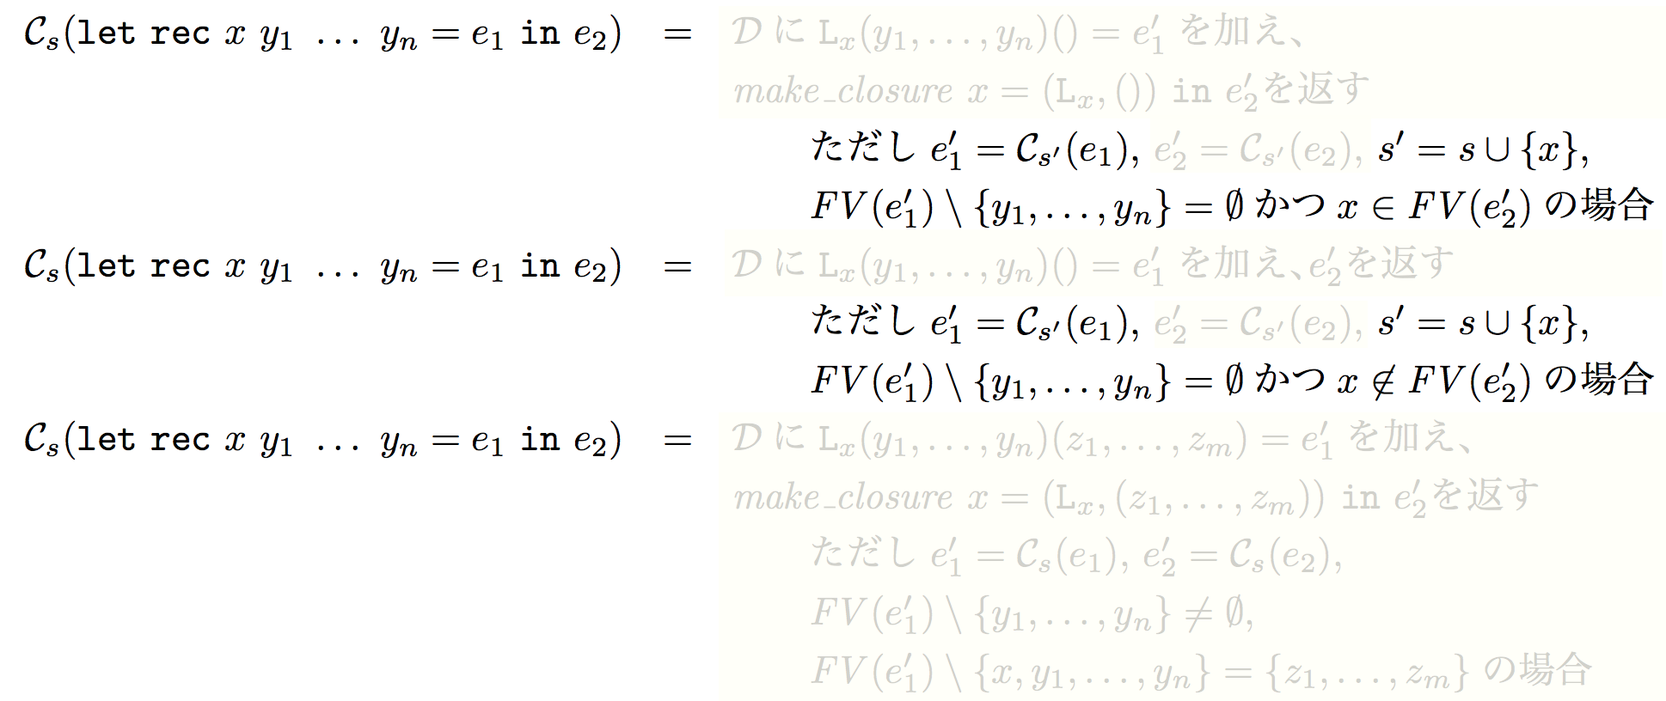
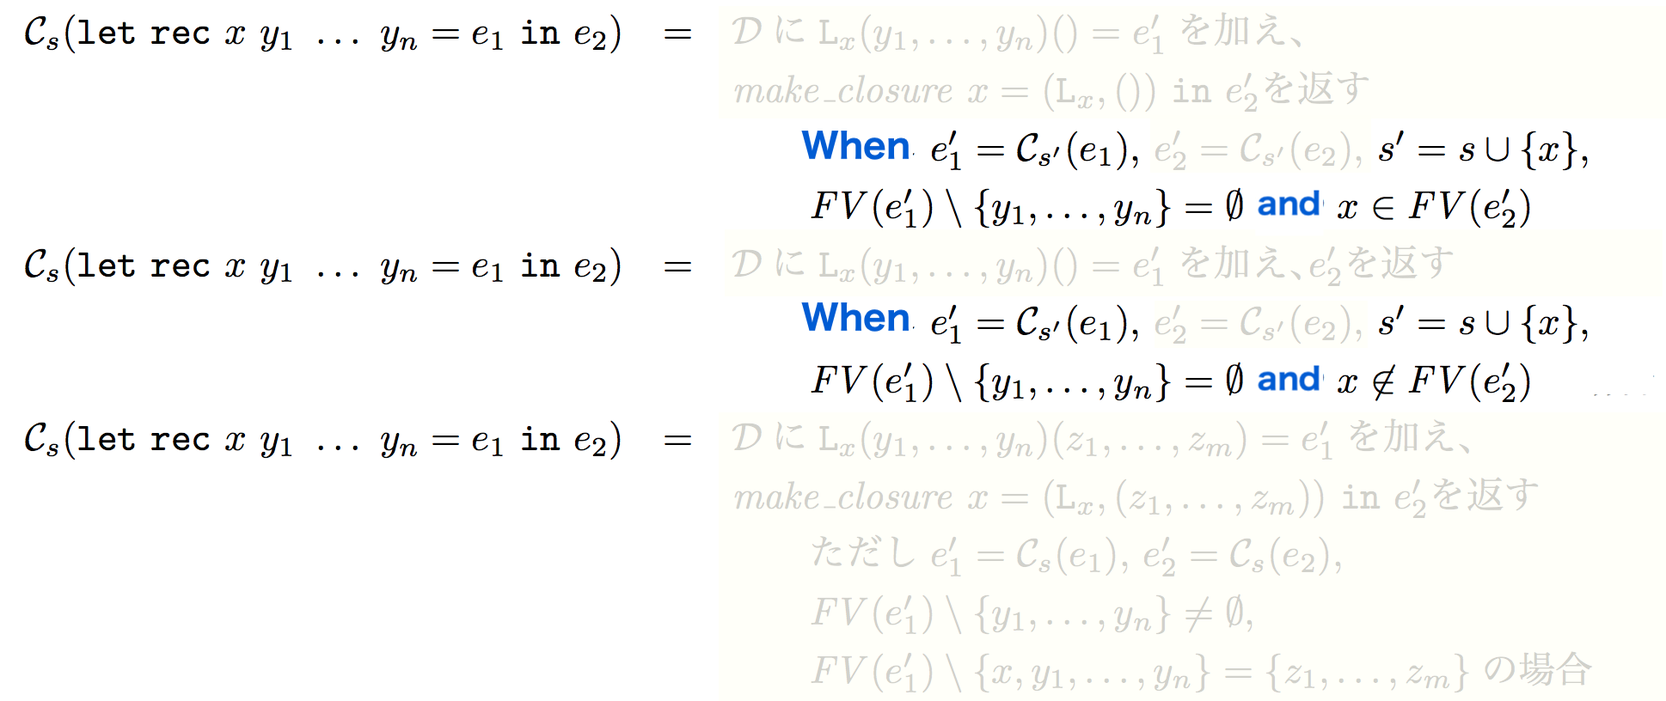
day11

diff --git a/docs/slide/11-closure.html b/docs/slide/11-closure.html
@@ -15,7 +15,7 @@
   <style type="text/css">
 a.sourceLine { display: inline-block; line-height: 1.25; }
 a.sourceLine { pointer-events: none; color: inherit; text-decoration: inherit; }
-a.sourceLine:empty { height: 1.2em; }
+a.sourceLine:empty { height: 1.2em; position: absolute; }
 .sourceCode { overflow: visible; }
 code.sourceCode { white-space: pre; position: relative; }
 div.sourceCode { margin: 1em 0; }
@@ -28,11 +28,13 @@ code.sourceCode { white-space: pre-wrap; }
 a.sourceLine { text-indent: -1em; padding-left: 1em; }
 }
 pre.numberSource a.sourceLine
-  { position: relative; left: -4em; }
+  { position: relative; }
+pre.numberSource a.sourceLine:empty
+  { position: absolute; }
 pre.numberSource a.sourceLine::before
   { content: attr(data-line-number);
-    position: relative; left: -1em; text-align: right; vertical-align: baseline;
-    border: none; pointer-events: all; display: inline-block;
+    position: absolute; left: -5em; text-align: right; vertical-align: baseline;
+    border: none; pointer-events: all;
     -webkit-touch-callout: none; -webkit-user-select: none;
     -khtml-user-select: none; -moz-user-select: none;
     -ms-user-select: none; user-select: none;
@@ -129,14 +131,93 @@ code span.wa { color: #60a0b0; font-weight: bold; font-style: italic; } /* Warni
 #MathJax_Message {position: fixed; left: 1px; bottom: 2px; background-color: #E6E6E6; border: 1px solid #959595; margin: 0px; padding: 2px 8px; z-index: 102; color: black; font-size: 80%; width: auto; white-space: nowrap}
 #MathJax_MSIE_Frame {position: absolute; top: 0; left: 0; width: 0px; z-index: 101; border: 0px; margin: 0px; padding: 0px}
 .MathJax_Error {color: #CC0000; font-style: italic}
+</style><style type="text/css">.MJXp-script {font-size: .8em}
+.MJXp-right {-webkit-transform-origin: right; -moz-transform-origin: right; -ms-transform-origin: right; -o-transform-origin: right; transform-origin: right}
+.MJXp-bold {font-weight: bold}
+.MJXp-italic {font-style: italic}
+.MJXp-scr {font-family: MathJax_Script,'Times New Roman',Times,STIXGeneral,serif}
+.MJXp-frak {font-family: MathJax_Fraktur,'Times New Roman',Times,STIXGeneral,serif}
+.MJXp-sf {font-family: MathJax_SansSerif,'Times New Roman',Times,STIXGeneral,serif}
+.MJXp-cal {font-family: MathJax_Caligraphic,'Times New Roman',Times,STIXGeneral,serif}
+.MJXp-mono {font-family: MathJax_Typewriter,'Times New Roman',Times,STIXGeneral,serif}
+.MJXp-largeop {font-size: 150%}
+.MJXp-largeop.MJXp-int {vertical-align: -.2em}
+.MJXp-math {display: inline-block; line-height: 1.2; text-indent: 0; font-family: 'Times New Roman',Times,STIXGeneral,serif; white-space: nowrap; border-collapse: collapse}
+.MJXp-display {display: block; text-align: center; margin: 1em 0}
+.MJXp-math span {display: inline-block}
+.MJXp-box {display: block!important; text-align: center}
+.MJXp-box:after {content: " "}
+.MJXp-rule {display: block!important; margin-top: .1em}
+.MJXp-char {display: block!important}
+.MJXp-mo {margin: 0 .15em}
+.MJXp-mfrac {margin: 0 .125em; vertical-align: .25em}
+.MJXp-denom {display: inline-table!important; width: 100%}
+.MJXp-denom > * {display: table-row!important}
+.MJXp-surd {vertical-align: top}
+.MJXp-surd > * {display: block!important}
+.MJXp-script-box > *  {display: table!important; height: 50%}
+.MJXp-script-box > * > * {display: table-cell!important; vertical-align: top}
+.MJXp-script-box > *:last-child > * {vertical-align: bottom}
+.MJXp-script-box > * > * > * {display: block!important}
+.MJXp-mphantom {visibility: hidden}
+.MJXp-munderover {display: inline-table!important}
+.MJXp-over {display: inline-block!important; text-align: center}
+.MJXp-over > * {display: block!important}
+.MJXp-munderover > * {display: table-row!important}
+.MJXp-mtable {vertical-align: .25em; margin: 0 .125em}
+.MJXp-mtable > * {display: inline-table!important; vertical-align: middle}
+.MJXp-mtr {display: table-row!important}
+.MJXp-mtd {display: table-cell!important; text-align: center; padding: .5em 0 0 .5em}
+.MJXp-mtr > .MJXp-mtd:first-child {padding-left: 0}
+.MJXp-mtr:first-child > .MJXp-mtd {padding-top: 0}
+.MJXp-mlabeledtr {display: table-row!important}
+.MJXp-mlabeledtr > .MJXp-mtd:first-child {padding-left: 0}
+.MJXp-mlabeledtr:first-child > .MJXp-mtd {padding-top: 0}
+.MJXp-merror {background-color: #FFFF88; color: #CC0000; border: 1px solid #CC0000; padding: 1px 3px; font-style: normal; font-size: 90%}
+.MJXp-scale0 {-webkit-transform: scaleX(.0); -moz-transform: scaleX(.0); -ms-transform: scaleX(.0); -o-transform: scaleX(.0); transform: scaleX(.0)}
+.MJXp-scale1 {-webkit-transform: scaleX(.1); -moz-transform: scaleX(.1); -ms-transform: scaleX(.1); -o-transform: scaleX(.1); transform: scaleX(.1)}
+.MJXp-scale2 {-webkit-transform: scaleX(.2); -moz-transform: scaleX(.2); -ms-transform: scaleX(.2); -o-transform: scaleX(.2); transform: scaleX(.2)}
+.MJXp-scale3 {-webkit-transform: scaleX(.3); -moz-transform: scaleX(.3); -ms-transform: scaleX(.3); -o-transform: scaleX(.3); transform: scaleX(.3)}
+.MJXp-scale4 {-webkit-transform: scaleX(.4); -moz-transform: scaleX(.4); -ms-transform: scaleX(.4); -o-transform: scaleX(.4); transform: scaleX(.4)}
+.MJXp-scale5 {-webkit-transform: scaleX(.5); -moz-transform: scaleX(.5); -ms-transform: scaleX(.5); -o-transform: scaleX(.5); transform: scaleX(.5)}
+.MJXp-scale6 {-webkit-transform: scaleX(.6); -moz-transform: scaleX(.6); -ms-transform: scaleX(.6); -o-transform: scaleX(.6); transform: scaleX(.6)}
+.MJXp-scale7 {-webkit-transform: scaleX(.7); -moz-transform: scaleX(.7); -ms-transform: scaleX(.7); -o-transform: scaleX(.7); transform: scaleX(.7)}
+.MJXp-scale8 {-webkit-transform: scaleX(.8); -moz-transform: scaleX(.8); -ms-transform: scaleX(.8); -o-transform: scaleX(.8); transform: scaleX(.8)}
+.MJXp-scale9 {-webkit-transform: scaleX(.9); -moz-transform: scaleX(.9); -ms-transform: scaleX(.9); -o-transform: scaleX(.9); transform: scaleX(.9)}
+.MathJax_PHTML .noError {vertical-align: ; font-size: 90%; text-align: left; color: black; padding: 1px 3px; border: 1px solid}
+</style><style type="text/css">.MathJax_Display {text-align: center; margin: 1em 0em; position: relative; display: block!important; text-indent: 0; max-width: none; max-height: none; min-width: 0; min-height: 0; width: 100%}
+.MathJax .merror {background-color: #FFFF88; color: #CC0000; border: 1px solid #CC0000; padding: 1px 3px; font-style: normal; font-size: 90%}
+.MathJax .MJX-monospace {font-family: monospace}
+.MathJax .MJX-sans-serif {font-family: sans-serif}
+#MathJax_Tooltip {background-color: InfoBackground; color: InfoText; border: 1px solid black; box-shadow: 2px 2px 5px #AAAAAA; -webkit-box-shadow: 2px 2px 5px #AAAAAA; -moz-box-shadow: 2px 2px 5px #AAAAAA; -khtml-box-shadow: 2px 2px 5px #AAAAAA; filter: progid:DXImageTransform.Microsoft.dropshadow(OffX=2, OffY=2, Color='gray', Positive='true'); padding: 3px 4px; z-index: 401; position: absolute; left: 0; top: 0; width: auto; height: auto; display: none}
+.MathJax {display: inline; font-style: normal; font-weight: normal; line-height: normal; font-size: 100%; font-size-adjust: none; text-indent: 0; text-align: left; text-transform: none; letter-spacing: normal; word-spacing: normal; word-wrap: normal; white-space: nowrap; float: none; direction: ltr; max-width: none; max-height: none; min-width: 0; min-height: 0; border: 0; padding: 0; margin: 0}
+.MathJax:focus, body :focus .MathJax {display: inline-table}
+.MathJax.MathJax_FullWidth {text-align: center; display: table-cell!important; width: 10000em!important}
+.MathJax img, .MathJax nobr, .MathJax a {border: 0; padding: 0; margin: 0; max-width: 5000em; max-height: 5000em; min-width: 0; min-height: 0; vertical-align: 0; line-height: normal; text-decoration: none}
+img.MathJax_strut {border: 0!important; padding: 0!important; margin: 0!important; vertical-align: 0!important}
+.MathJax span {display: inline; position: static; border: 0; padding: 0; margin: 0; vertical-align: 0; line-height: normal; text-decoration: none}
+.MathJax nobr {white-space: nowrap!important}
+.MathJax img {display: inline!important; float: none!important}
+.MathJax * {transition: none; -webkit-transition: none; -moz-transition: none; -ms-transition: none; -o-transition: none}
+.MathJax_Processing {visibility: hidden; position: fixed; width: 0; height: 0; overflow: hidden}
+.MathJax_Processed {display: none!important}
+.MathJax_ExBox {display: block!important; overflow: hidden; width: 1px; height: 60ex; min-height: 0; max-height: none}
+.MathJax .MathJax_EmBox {display: block!important; overflow: hidden; width: 1px; height: 60em; min-height: 0; max-height: none}
+.MathJax_LineBox {display: table!important}
+.MathJax_LineBox span {display: table-cell!important; width: 10000em!important; min-width: 0; max-width: none; padding: 0; border: 0; margin: 0}
+.MathJax .MathJax_HitBox {cursor: text; background: white; opacity: 0; filter: alpha(opacity=0)}
+.MathJax .MathJax_HitBox * {filter: none; opacity: 1; background: transparent}
+#MathJax_Tooltip * {filter: none; opacity: 1; background: transparent}
+@font-face {font-family: MathJax_Blank; src: url('about:blank')}
+.MathJax .noError {vertical-align: ; font-size: 90%; text-align: left; color: black; padding: 1px 3px; border: 1px solid}
 </style></head>
-<body style="-webkit-transition: -webkit-transform 0.8s ease; transition: -webkit-transform 0.8s ease;">
+<body style="-webkit-transition: -webkit-transform 0.8s ease; transition: -webkit-transform 0.8s ease;"><div style="visibility: hidden; overflow: hidden; position: absolute; top: 0px; height: 1px; width: auto; padding: 0px; border: 0px; margin: 0px; text-align: left; text-indent: 0px; text-transform: none; line-height: normal; letter-spacing: normal; word-spacing: normal;"><div id="MathJax_Hidden"></div></div><div id="MathJax_Message" style="display: none;"></div>
   <div class="reveal slide center has-vertical-slides has-horizontal-slides ready" role="application" data-transition-speed="default" data-background-transition="fade">
     <div class="slides" style="width: 1280px; height: 1024px; left: 50%; top: 50%; bottom: auto; right: auto; -webkit-transform: translate(-50%, -50%) scale(0.28125);">
 
-<section style="top: 48px; display: block;" class="present">
+<section style="top: 229px; display: block;" class="present">
   <h1 class="title">Closure Conversion: Implementation</h1>
-  <p class="author">Ken Wakita (<a href="https://wakita.github.io/fp2018/">https://wakita.github.io/fp2018/</a>)</p>
+  <p class="author">Ken Wakita (<a href="https://wakita.github.io/fp2018/" class="uri">https://wakita.github.io/fp2018/</a>)</p>
   <p class="date">Nov 5, 2018</p>
 </section>
 
@@ -178,7 +259,7 @@ f 9
 
 -->
 </section>
-<section style="top: 0px; display: block;" hidden="" aria-hidden="true" class="stack future"><section id="implementation-of-closure-conversion" class="title-slide slide level1" style="top: 210.5px; display: block;"><h1>Implementation of Closure Conversion</h1></section><section id="application" class="slide level2 future" aria-hidden="true" style="top: 512px; display: none;">
+<section style="top: 0px; display: block;" hidden="" aria-hidden="true" class="stack future"><section id="implementation-of-closure-conversion" class="title-slide slide level1" style="top: 301px; display: block;"><h1>Implementation of Closure Conversion</h1></section><section id="application" class="slide level2 future" aria-hidden="true" style="top: 512px; display: none;">
 <h2>Application</h2>
 <div class="sourceCode" id="cb1"><pre class="sourceCode ocaml"><code class="sourceCode ocaml"><a class="sourceLine" id="cb1-1" data-line-number="1"><span class="co">(* closure.ml *)</span></a>
 <a class="sourceLine" id="cb1-2" data-line-number="2"></a>
@@ -190,22 +271,22 @@ f 9
 <a class="sourceLine" id="cb1-8" data-line-number="8">  | KNormal.App(f, xs) -&gt; AppCls(f, xs)</a>
 <a class="sourceLine" id="cb1-9" data-line-number="9"></a>
 <a class="sourceLine" id="cb1-10" data-line-number="10">  | ...</a></code></pre></div>
-<p><span class="math display">\[\begin {align}
-{\cal C}_s(x\ y_1\ldots y_n) &amp;=
+<p><span class="math display"><span class="MathJax_Preview" style="color: inherit;"><span class="MJXp-math MJXp-display" id="MJXp-Span-1"><span class="MJXp-mtable" id="MJXp-Span-2"><span><span class="MJXp-mtr" id="MJXp-Span-3" style="vertical-align: baseline;"><span class="MJXp-mtd" id="MJXp-Span-4" style="text-align: right;"><span class="MJXp-msubsup" id="MJXp-Span-5"><span class="MJXp-mrow" id="MJXp-Span-6" style="margin-right: 0.05em;"><span class="MJXp-mi MJXp-cal" id="MJXp-Span-7">C</span></span><span class="MJXp-mi MJXp-italic MJXp-script" id="MJXp-Span-8" style="vertical-align: -0.4em;">s</span></span><span class="MJXp-mo" id="MJXp-Span-9" style="margin-left: 0em; margin-right: 0em;">(</span><span class="MJXp-mi MJXp-italic" id="MJXp-Span-10">x</span><span class="MJXp-mtext" id="MJXp-Span-11">&nbsp;</span><span class="MJXp-msubsup" id="MJXp-Span-12"><span class="MJXp-mi MJXp-italic" id="MJXp-Span-13" style="margin-right: 0.05em;">y</span><span class="MJXp-mn MJXp-script" id="MJXp-Span-14" style="vertical-align: -0.4em;">1</span></span><span class="MJXp-mo" id="MJXp-Span-15" style="margin-left: 0em; margin-right: 0em;">…</span><span class="MJXp-msubsup" id="MJXp-Span-16"><span class="MJXp-mi MJXp-italic" id="MJXp-Span-17" style="margin-right: 0.05em;">y</span><span class="MJXp-mi MJXp-italic MJXp-script" id="MJXp-Span-18" style="vertical-align: -0.4em;">n</span></span><span class="MJXp-mo" id="MJXp-Span-19" style="margin-left: 0em; margin-right: 0em;">)</span></span><span class="MJXp-mtd" id="MJXp-Span-20" style="padding-left: 0em; text-align: left;"><span class="MJXp-mi" id="MJXp-Span-21"></span><span class="MJXp-mo" id="MJXp-Span-22" style="margin-left: 0.333em; margin-right: 0.333em;">=</span><span class="MJXp-mrow" id="MJXp-Span-23"><span class="MJXp-mo" id="MJXp-Span-24" style="margin-left: 0em; margin-right: 0em; vertical-align: -0.661em;"><span class="MJXp-right MJXp-scale4" style="font-size: 3.644em; margin-left: -0.278em;">{</span></span><span class="MJXp-mtable" id="MJXp-Span-25"><span><span class="MJXp-mtr" id="MJXp-Span-26" style="vertical-align: baseline;"><span class="MJXp-mtd" id="MJXp-Span-27" style="text-align: left;"><span class="MJXp-mrow" id="MJXp-Span-28"><span class="MJXp-mi undefined" id="MJXp-Span-29">a</span><span class="MJXp-mi undefined" id="MJXp-Span-30">p</span><span class="MJXp-mi undefined" id="MJXp-Span-31">p</span><span class="MJXp-mi undefined" id="MJXp-Span-32">l</span><span class="MJXp-mi undefined" id="MJXp-Span-33">y</span><span class="MJXp-mi undefined" id="MJXp-Span-34">_</span><span class="MJXp-mi undefined" id="MJXp-Span-35">c</span><span class="MJXp-mi undefined" id="MJXp-Span-36">l</span><span class="MJXp-mi undefined" id="MJXp-Span-37">o</span><span class="MJXp-mi undefined" id="MJXp-Span-38">s</span><span class="MJXp-mi undefined" id="MJXp-Span-39">u</span><span class="MJXp-mi undefined" id="MJXp-Span-40">r</span><span class="MJXp-mi undefined" id="MJXp-Span-41">e</span></span><span class="MJXp-mo" id="MJXp-Span-42" style="margin-left: 0em; margin-right: 0em;">(</span><span class="MJXp-mi MJXp-italic" id="MJXp-Span-43">x</span><span class="MJXp-mo" id="MJXp-Span-44" style="margin-left: 0em; margin-right: 0.222em;">,</span><span class="MJXp-msubsup" id="MJXp-Span-45"><span class="MJXp-mi MJXp-italic" id="MJXp-Span-46" style="margin-right: 0.05em;">y</span><span class="MJXp-mn MJXp-script" id="MJXp-Span-47" style="vertical-align: -0.4em;">1</span></span><span class="MJXp-mo" id="MJXp-Span-48" style="margin-left: 0em; margin-right: 0.222em;">,</span><span class="MJXp-mo" id="MJXp-Span-49" style="margin-left: 0em; margin-right: 0em;">…</span><span class="MJXp-mo" id="MJXp-Span-50" style="margin-left: 0em; margin-right: 0.222em;">,</span><span class="MJXp-msubsup" id="MJXp-Span-51"><span class="MJXp-mi MJXp-italic" id="MJXp-Span-52" style="margin-right: 0.05em;">y</span><span class="MJXp-mi MJXp-italic MJXp-script" id="MJXp-Span-53" style="vertical-align: -0.4em;">n</span></span><span class="MJXp-mo" id="MJXp-Span-54" style="margin-left: 0em; margin-right: 0em;">)</span></span><span class="MJXp-mtd" id="MJXp-Span-55" style="padding-left: 1em; text-align: left;"><span class="MJXp-mi MJXp-italic" id="MJXp-Span-56">x</span><span class="MJXp-mo" id="MJXp-Span-57" style="margin-left: 0.333em; margin-right: 0.333em;">∉</span><span class="MJXp-mi MJXp-italic" id="MJXp-Span-58">s</span></span></span><span class="MJXp-mtr" id="MJXp-Span-59" style="vertical-align: baseline;"><span class="MJXp-mtd" id="MJXp-Span-60" style="padding-top: 0.2em; text-align: left;"><span class="MJXp-mrow" id="MJXp-Span-61"><span class="MJXp-mi undefined" id="MJXp-Span-62">a</span><span class="MJXp-mi undefined" id="MJXp-Span-63">p</span><span class="MJXp-mi undefined" id="MJXp-Span-64">p</span><span class="MJXp-mi undefined" id="MJXp-Span-65">l</span><span class="MJXp-mi undefined" id="MJXp-Span-66">y</span><span class="MJXp-mi undefined" id="MJXp-Span-67">_</span><span class="MJXp-mi undefined" id="MJXp-Span-68">d</span><span class="MJXp-mi undefined" id="MJXp-Span-69">i</span><span class="MJXp-mi undefined" id="MJXp-Span-70">r</span><span class="MJXp-mi undefined" id="MJXp-Span-71">e</span><span class="MJXp-mi undefined" id="MJXp-Span-72">c</span><span class="MJXp-mi undefined" id="MJXp-Span-73">t</span></span><span class="MJXp-mo" id="MJXp-Span-74" style="margin-left: 0em; margin-right: 0em;">(</span><span class="MJXp-msubsup" id="MJXp-Span-75"><span class="MJXp-mrow" id="MJXp-Span-76" style="margin-right: 0.05em;"><span class="MJXp-mi MJXp-mono" id="MJXp-Span-77">L</span></span><span class="MJXp-mi MJXp-italic MJXp-script" id="MJXp-Span-78" style="vertical-align: -0.4em;">x</span></span><span class="MJXp-mo" id="MJXp-Span-79" style="margin-left: 0em; margin-right: 0.222em;">,</span><span class="MJXp-msubsup" id="MJXp-Span-80"><span class="MJXp-mi MJXp-italic" id="MJXp-Span-81" style="margin-right: 0.05em;">y</span><span class="MJXp-mn MJXp-script" id="MJXp-Span-82" style="vertical-align: -0.4em;">1</span></span><span class="MJXp-mo" id="MJXp-Span-83" style="margin-left: 0em; margin-right: 0.222em;">,</span><span class="MJXp-mo" id="MJXp-Span-84" style="margin-left: 0em; margin-right: 0em;">…</span><span class="MJXp-mo" id="MJXp-Span-85" style="margin-left: 0em; margin-right: 0.222em;">,</span><span class="MJXp-msubsup" id="MJXp-Span-86"><span class="MJXp-mi MJXp-italic" id="MJXp-Span-87" style="margin-right: 0.05em;">y</span><span class="MJXp-mi MJXp-italic MJXp-script" id="MJXp-Span-88" style="vertical-align: -0.4em;">n</span></span><span class="MJXp-mo" id="MJXp-Span-89" style="margin-left: 0em; margin-right: 0em;">)</span></span><span class="MJXp-mtd" id="MJXp-Span-90" style="padding-left: 1em; padding-top: 0.2em; text-align: left;"><span class="MJXp-mi MJXp-italic" id="MJXp-Span-91">x</span><span class="MJXp-mo" id="MJXp-Span-92" style="margin-left: 0.333em; margin-right: 0.333em;">∈</span><span class="MJXp-mi MJXp-italic" id="MJXp-Span-93">s</span></span></span></span></span><span class="MJXp-mo" id="MJXp-Span-94" style="margin-left: 0em; margin-right: 0em;"></span></span></span></span></span></span></span></span><script type="math/tex; mode=display" id="MathJax-Element-1">\begin {align}
+{\cal C}_s(x\ y_1\ldots y_n) &=
 \begin {cases}
-\mathit {apply\_closure}(x, y_1, \ldots, y_n) &amp; x \not\in s \\
-\mathit {apply\_direct}(\mathtt {L}_x, y_1, \ldots, y_n) &amp; x \in s
+\mathit {apply\_closure}(x, y_1, \ldots, y_n) & x \not\in s \\
+\mathit {apply\_direct}(\mathtt {L}_x, y_1, \ldots, y_n) & x \in s
 \end {cases}
-\end {align}\]</span></p>
+\end {align}</script></span></p>
 </section><section id="the-overview-of-closure-conversion" class="slide level2 future" aria-hidden="true" style="top: 512px; display: none;">
 <h2>The Overview of Closure Conversion</h2>
 <div class="sourceCode" id="cb2"><pre class="sourceCode ocaml"><code class="sourceCode ocaml"><a class="sourceLine" id="cb2-1" data-line-number="1">  | KNormal.LetRec({ KNormal.name = (x, t); KNormal.args = yts; KNormal.body = e1 }, e2) -&gt;</a>
-<a class="sourceLine" id="cb2-2" data-line-number="2">    <span class="co">(* Attempt closure conversion, assuming x containing no free variables: Case 1 *)</span></a>
-<a class="sourceLine" id="cb2-3" data-line-number="3">    <span class="kw">if</span> e1' contains free variable <span class="co">(* our assumption is not met *)</span> <span class="kw">then</span></a>
-<a class="sourceLine" id="cb2-4" data-line-number="4">      <span class="co">(* Retry conversion: Case 2 or 3 *)</span></a>
-<a class="sourceLine" id="cb2-5" data-line-number="5">    <span class="co">(* Generate toplevel function definition *)</span></a>
-<a class="sourceLine" id="cb2-6" data-line-number="6">    <span class="co">(* Case 1, 3: Create closure *)</span></a>
-<a class="sourceLine" id="cb2-7" data-line-number="7">    e2'</a></code></pre></div>
+<a class="sourceLine" id="cb2-2" data-line-number="2">    <span class="co">(* Attempt closure conversion, assuming x containing no free variables: Cases 1, 2 *)</span></a>
+<a class="sourceLine" id="cb2-3" data-line-number="3">    <span class="co">(* if e1' contains free variable (* our assumption is not met *) then</span></a>
+<a class="sourceLine" id="cb2-4" data-line-number="4"><span class="co">      (* Retry conversion: Case 3 *)</span></a>
+<a class="sourceLine" id="cb2-5" data-line-number="5"><span class="co">    (* Generate toplevel function definition *)</span></a>
+<a class="sourceLine" id="cb2-6" data-line-number="6"><span class="co">    (* Case 1, 3: Create closure *)</span></a>
+<a class="sourceLine" id="cb2-7" data-line-number="7"><span class="co">    e2'</span></a></code></pre></div>
 <figure>
 <img alt="Even Smarter Closure Conversion" src="/fp2018/mincaml/overview/closure2.png" data-lazy-loaded=""><figcaption>Even Smarter Closure Conversion</figcaption>
 </figure>
@@ -285,9 +366,9 @@ f 9
 
 -->
 </section></section>
-<section id="back-to-top" class="title-slide slide level1 future" style="top: 512px; display: none;" hidden="" aria-hidden="true"><h1>Back to <a href="/fp2018/page/">Top</a></h1></section>
+<section style="top: 512px; display: none;" hidden="" aria-hidden="true" class="stack future"><section id="back-to-top" class="title-slide slide level1" style="top: 512px; display: none;"><h1>Back to <a href="/fp2018/page/">Top</a></h1></section></section>
     </div>
-  <div class="backgrounds"><div class="slide-background present" data-loaded="true" style="display: block;"><div class="slide-background-content"></div></div><div class="slide-background slide level2 future" data-loaded="true" style="display: block;"><div class="slide-background-content"></div></div><div class="slide-background stack future" data-loaded="true" style="display: block;"><div class="slide-background-content"></div><div class="slide-background title-slide slide level1 present" data-loaded="true" style="display: block;"><div class="slide-background-content"></div></div><div class="slide-background slide level2 future" style="display: none;"><div class="slide-background-content"></div></div><div class="slide-background slide level2 future" style="display: none;"><div class="slide-background-content"></div></div><div class="slide-background slide level2 future" style="display: none;"><div class="slide-background-content"></div></div><div class="slide-background slide level2 future" style="display: none;"><div class="slide-background-content"></div></div><div class="slide-background slide level2 future" style="display: none;"><div class="slide-background-content"></div></div><div class="slide-background slide level2 future" style="display: none;"><div class="slide-background-content"></div></div><div class="slide-background slide level2 future" style="display: none;"><div class="slide-background-content"></div></div><div class="slide-background slide level2 future" style="display: none;"><div class="slide-background-content"></div></div></div><div class="slide-background title-slide slide level1 future" style="display: none;"><div class="slide-background-content"></div></div></div><div class="progress" style="display: block;"><span style="width: 0px;"></span></div><aside class="controls" data-controls-layout="bottom-right" data-controls-back-arrows="faded" style="display: block;"><button class="navigate-left" aria-label="previous slide" disabled="disabled"><div class="controls-arrow"></div></button><button class="navigate-right enabled highlight" aria-label="next slide"><div class="controls-arrow"></div></button><button class="navigate-up" aria-label="above slide" disabled="disabled"><div class="controls-arrow"></div></button><button class="navigate-down" aria-label="below slide" disabled="disabled"><div class="controls-arrow"></div></button></aside><div class="slide-number" style="display: block;"><a href="#/"><span class="slide-number-a">1</span></a></div><div class="speaker-notes" data-prevent-swipe="" tabindex="0"></div><div class="pause-overlay"><button class="resume-button">Resume presentation</button></div><div id="aria-status-div" aria-live="polite" aria-atomic="true" style="position: absolute; height: 1px; width: 1px; overflow: hidden; clip: rect(1px 1px 1px 1px);">
+  <div class="backgrounds"><div class="slide-background present" data-loaded="true" style="display: block;"><div class="slide-background-content"></div></div><div class="slide-background slide level2 future" data-loaded="true" style="display: block;"><div class="slide-background-content"></div></div><div class="slide-background stack future" data-loaded="true" style="display: block;"><div class="slide-background-content"></div><div class="slide-background title-slide slide level1 present" data-loaded="true" style="display: block;"><div class="slide-background-content"></div></div><div class="slide-background slide level2 future" style="display: none;"><div class="slide-background-content"></div></div><div class="slide-background slide level2 future" style="display: none;"><div class="slide-background-content"></div></div><div class="slide-background slide level2 future" style="display: none;"><div class="slide-background-content"></div></div><div class="slide-background slide level2 future" style="display: none;"><div class="slide-background-content"></div></div><div class="slide-background slide level2 future" style="display: none;"><div class="slide-background-content"></div></div><div class="slide-background slide level2 future" style="display: none;"><div class="slide-background-content"></div></div><div class="slide-background slide level2 future" style="display: none;"><div class="slide-background-content"></div></div><div class="slide-background slide level2 future" style="display: none;"><div class="slide-background-content"></div></div></div><div class="slide-background stack future" style="display: none;"><div class="slide-background-content"></div><div class="slide-background title-slide slide level1 present" style="display: none;"><div class="slide-background-content"></div></div></div></div><div class="progress" style="display: block;"><span style="width: 0px;"></span></div><aside class="controls" data-controls-layout="bottom-right" data-controls-back-arrows="faded" style="display: block;"><button class="navigate-left" aria-label="previous slide" disabled="disabled"><div class="controls-arrow"></div></button><button class="navigate-right enabled highlight" aria-label="next slide"><div class="controls-arrow"></div></button><button class="navigate-up" aria-label="above slide" disabled="disabled"><div class="controls-arrow"></div></button><button class="navigate-down" aria-label="below slide" disabled="disabled"><div class="controls-arrow"></div></button></aside><div class="slide-number" style="display: block;"><a href="#/"><span class="slide-number-a">1</span></a></div><div class="speaker-notes" data-prevent-swipe="" tabindex="0"></div><div class="pause-overlay"><button class="resume-button">Resume presentation</button></div><div id="aria-status-div" aria-live="polite" aria-atomic="true" style="position: absolute; height: 1px; width: 1px; overflow: hidden; clip: rect(1px 1px 1px 1px);">
   Closure Conversion: Implementation
   Ken Wakita (https://wakita.github.io/fp2018/)
   Nov 5, 2018
@@ -326,4 +407,4 @@ f 9
     </script>
     
 
-</body></html>
+<div style="position: absolute; width: 0px; height: 0px; overflow: hidden; padding: 0px; border: 0px; margin: 0px;"><div id="MathJax_Font_Test" style="position: absolute; visibility: hidden; top: 0px; left: 0px; width: auto; padding: 0px; border: 0px; margin: 0px; white-space: nowrap; text-align: left; text-indent: 0px; text-transform: none; line-height: normal; letter-spacing: normal; word-spacing: normal; font-size: 40px; font-weight: normal; font-style: normal; font-family: STIXSizeOneSym, sans-serif;"></div></div></body></html>
